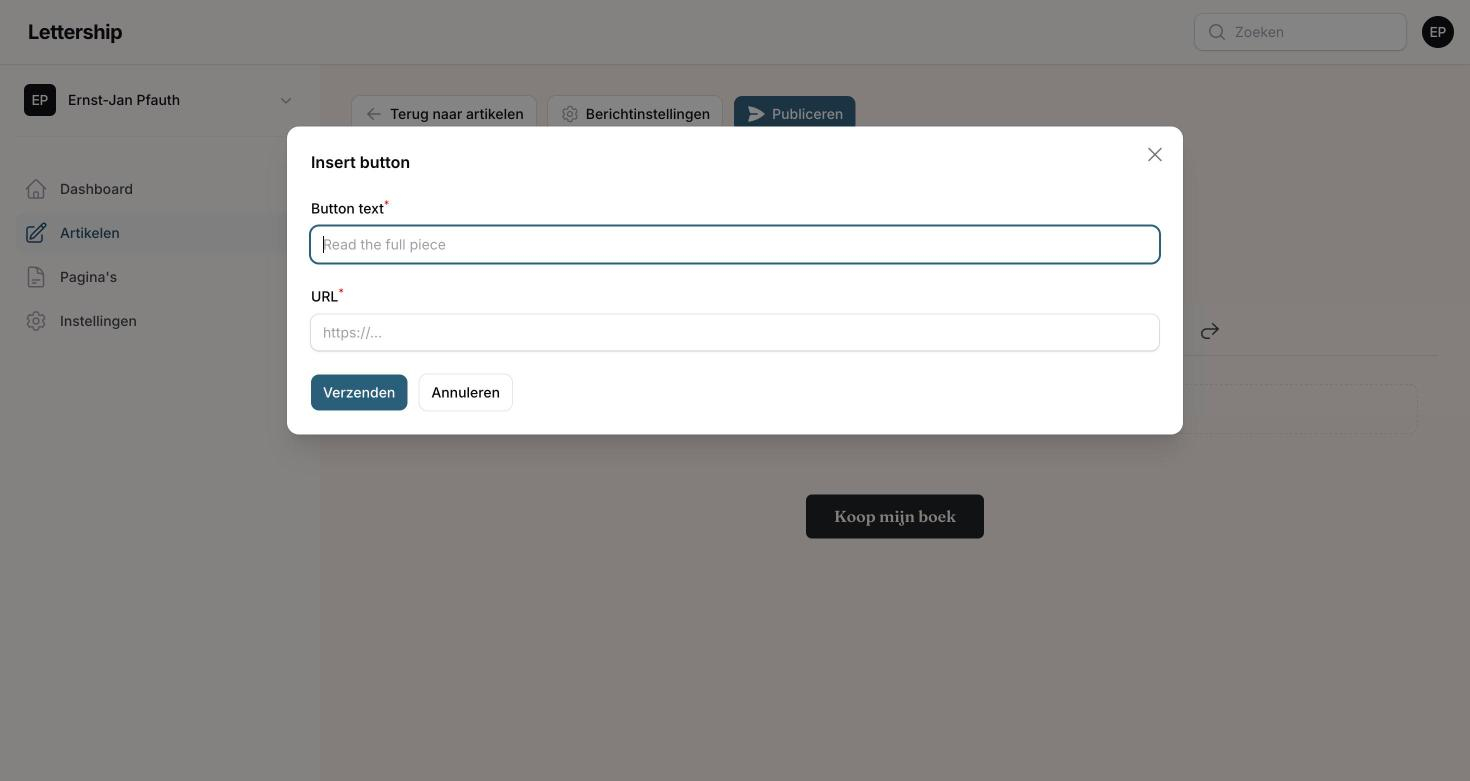
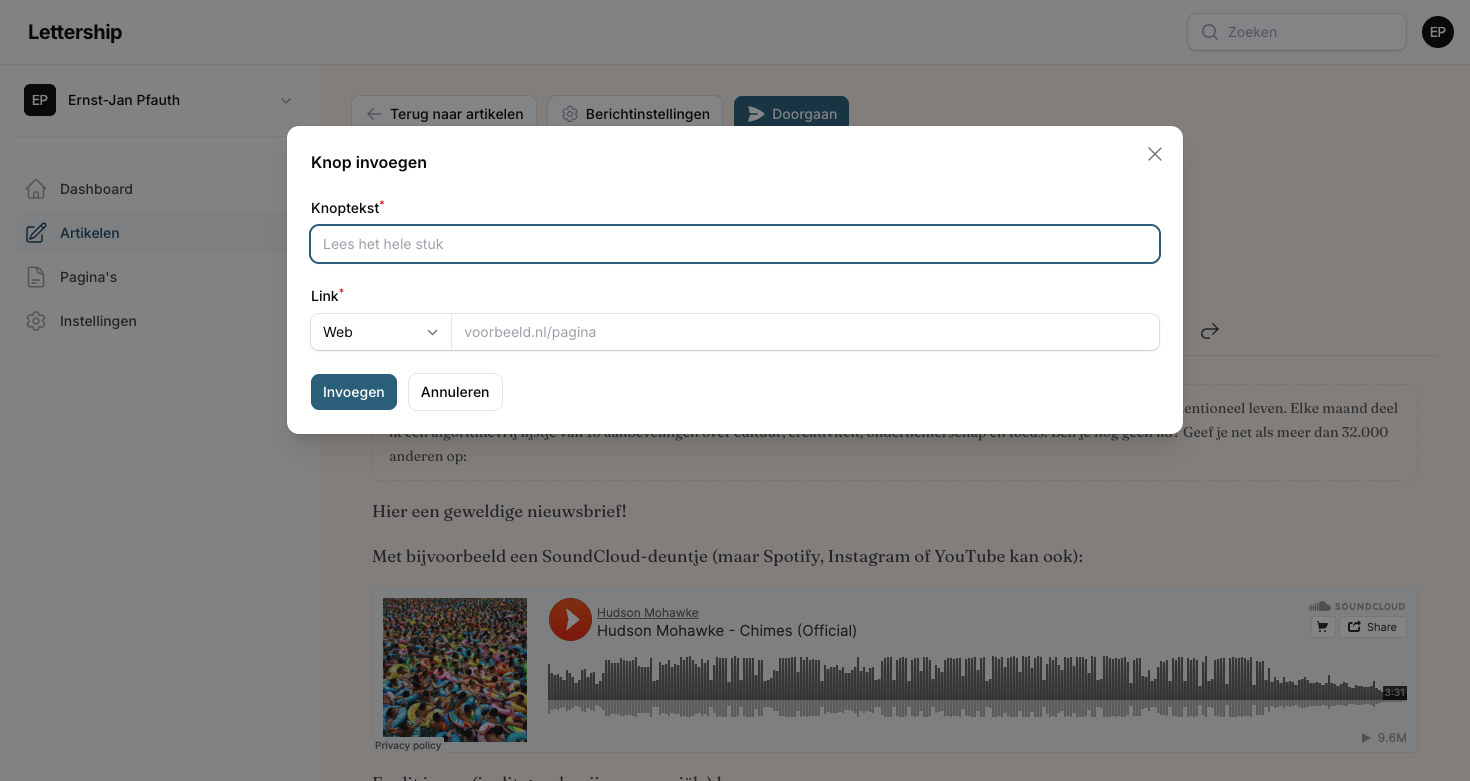
Tekst bijgewerkt in Obsidian op MinivanErnstJan.localdomain: 2026-10-26 17:24:25

diff --git a/src/content/docs/artikelen.md b/src/content/docs/artikelen.md
@@ -61,7 +61,7 @@ Zo opent mijn septembereditie op de site:
 
 Link button maakt een knop in je accentkleur, met eigen tekst en een link. Ik gebruik deze bijvoorbeeld voor een **"Koop mijn boek"-knop** bij de aankondiging van een nieuw boek.
 
-Een knop kan ook een mail openen: begin de link dan met `mailto:`, bijvoorbeeld `mailto:jij@voorbeeld.nl`. Handig voor een knop als "Stuur me een berichtje".
+Een knop kan ook een mail openen: kies bij **Link** dan **E-mail** in plaats van **Web** en vul je mailadres in. Handig voor een knop als "Stuur me een berichtje". Met **Telefoon** belt de lezer je direct.
 
 ### En verder
 

diff --git a/src/content/docs/en/artikelen.md b/src/content/docs/en/artikelen.md
@@ -61,7 +61,7 @@ This is how my September edition opens on the site:
 
 Link button makes a button in your accent colour, with your own text and a link. I use it, for example, for a **"Buy my book" button** when announcing a new book.
 
-A button can also open an email: start the link with `mailto:`, for example `mailto:you@example.com`. Handy for a button like "Send me a message".
+A button can also open an email: under **Link**, choose **Email** instead of **Web** and enter your email address. Handy for a button like "Send me a message". With **Phone**, readers call you directly.
 
 ### And also
 
